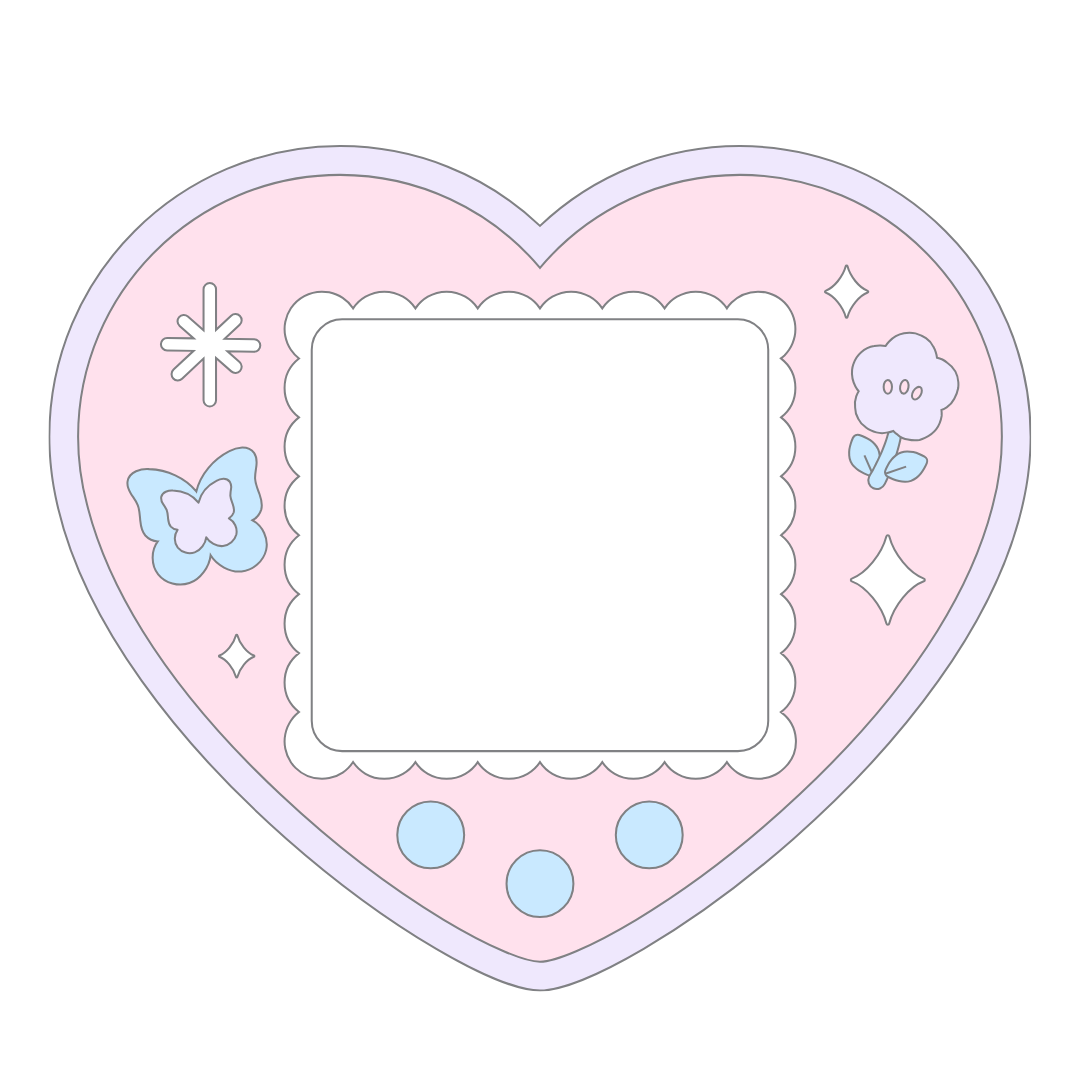
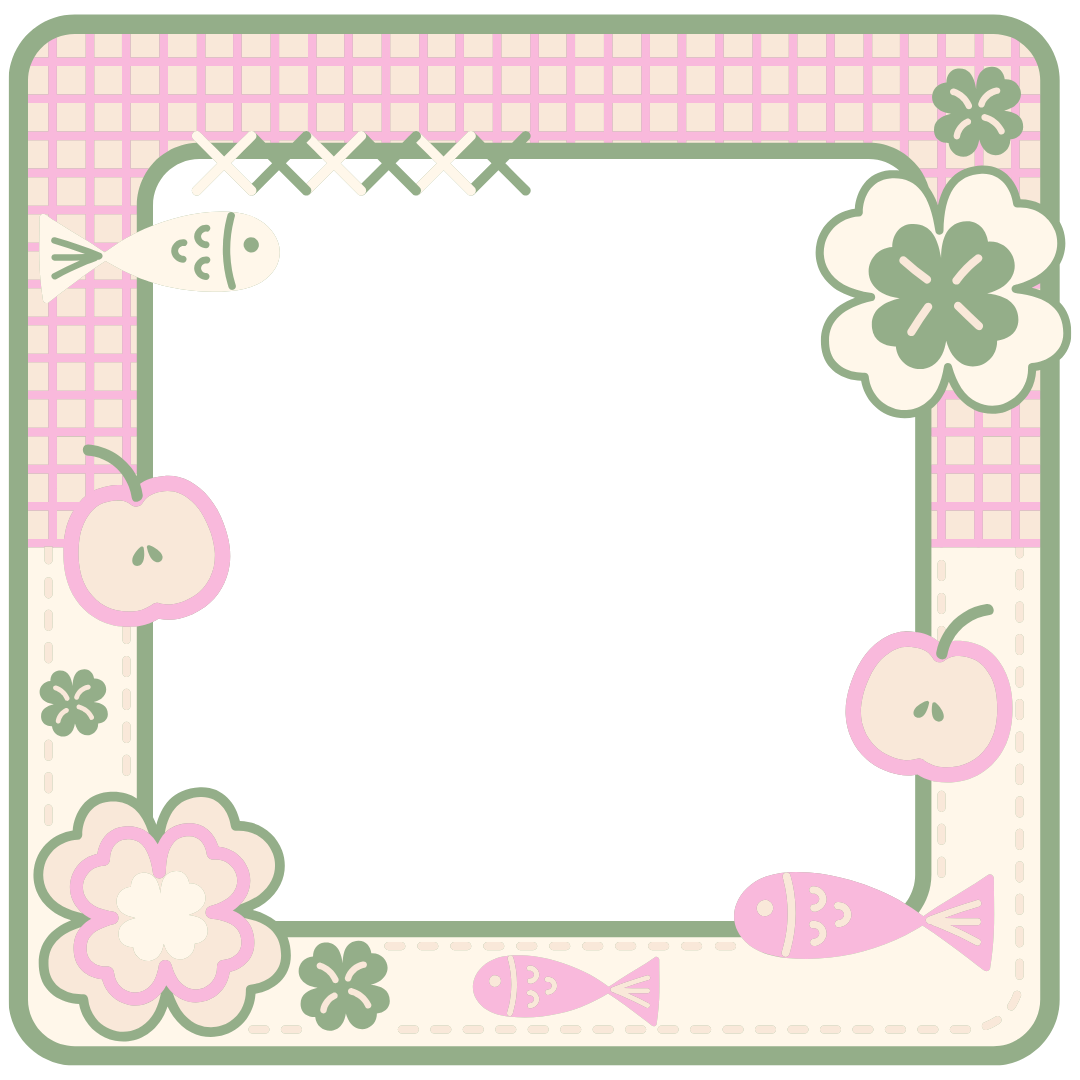
adjust designs

diff --git a/frontend/src/pages/ProfilePage.jsx b/frontend/src/pages/ProfilePage.jsx
@@ -3,7 +3,7 @@
 import { useState } from "react"
 import { useAuthStore } from "../store/useAuthStore"
 import avatar from "../assets/avatar.jpg"
-import { Camera, Mail, User } from "lucide-react"
+import { Camera, Cloud, Mail, User } from "lucide-react"
 import profileContainer from "../assets/profileContainer.png"
 
 const ProfilePage = () => {
@@ -26,14 +26,16 @@ const ProfilePage = () => {
 
   return (
     <div className="h-screen pt-20">
-      <div className="max-w-2xl mx-auto p-4 py-8">
-        <div className="bg-base-300 rounded-xl p-6 space-y-8">
+      <div className="max-w-5xl mx-auto p-4 py-8">
+        <div className="bg-base-300 rounded-xl p-6 space-y-2">
           <h1 className="text-2xl font-semibold">Profile</h1>
-          <p className="mt-2">Your profile information</p>
+          <p className="mt-1">Your profile information</p>
         </div>
 
-        {/* ================AVATAR UPLOAD================= */}
-        <div className="flex flex-col items-center gap-4 my-8">
+     <div className="grid lg:grid-cols-2 xl:grid-cols-2 items-center justify-center mt-6">
+         {/* ================AVATAR UPLOAD================= */}
+        <div className="flex-1 max-w-md">
+          <div className="flex flex-col items-center gap-4 my-8">
           <div className="relative">
             {/* Heart container with exact positioning */}
             <div className="relative w-80 h-80">
@@ -47,15 +49,12 @@ const ProfilePage = () => {
               <div className="absolute inset-0 flex items-center justify-center">
                 <div className="relative" style={{ marginTop: "8px", marginLeft: "2px" }}>
                   {/* Profile image with exact dimensions to fit the scalloped frame */}
-                  <div className="size-34 -mt-2 overflow-hidden relative">
+                  <div className="size-65 -mt-2 overflow-hidden relative">
                     <img
                       src={selectedImage || authUser?.profilePic || avatar}
                       alt="Profile Image"
-                      className="w-full h-full object-cover"
-                      style={{
-                        clipPath: "polygon(8% 8%, 92% 8%, 92% 92%, 8% 92%)",
-                        borderRadius: "12px",
-                      }}
+                      className="w-full h-full object-cover rounded-4xl border-3 border-[#94ad89]  bg-white"
+                     
                     />
                   </div>
 
@@ -82,18 +81,24 @@ const ProfilePage = () => {
             </div>
           </div>
 
-          <p className="text-sm text-primary text-center max-w-xs">
-            {isUpdatingProfile ? "Uploading..." : "Click the camera icon to upload a new profile picture"}
+          <p className="text-sm text-primary text-center max-w-md">
+            {isUpdatingProfile ? <div className="absolute inset-0 bg-base/70 backdrop-blur-sm z-10 flex items-center justify-center rounded-2xl">
+      <Cloud className="w-16 h-16 text-primary animate-bounce" />
+    </div> : <div className="bg-primary-content p-4 rounded-xl text-center text-primary">
+      Click the camera icon to upload a new profile picture</div>}
           </p>
         </div>
+        </div>
 
-        <div className="space-y-6">
+        {/* ================PROFILE INFO================= */}
+        <div className="flex-1 max-w-md space-y-6">
+           <div className="space-y-6">
           <div className="space-y-2">
             <div className="text-sm text-zinc-400 flex items-center gap-2">
               <User className="size-4" />
               Fullname
             </div>
-            <p className="px-4 py-2 bg-base-200 rounded-lg border">{authUser?.fullname}</p>
+            <p className="px-4 py-2 bg-primary-content rounded-lg border-2 border-secondary">{authUser?.fullname}</p>
           </div>
 
           <div className="space-y-2">
@@ -101,16 +106,17 @@ const ProfilePage = () => {
               <Mail className="size-4" />
               Email
             </div>
-            <p className="px-4 py-2 bg-base-200 rounded-lg border">{authUser?.email}</p>
+            <p className="px-4 py-2 bg-primary-content rounded-lg border-2 border-secondary">{authUser?.email}</p>
           </div>
-        </div>
 
-        <div className="mt-6 bg-base-300 rounded-xl p-6">
+          
+        </div>
+ <div className="mt-6 bg-base-300/40 rounded-xl p-6">
           <h2 className="text-lg font-medium mb-4">Account Information</h2>
           <div className="space-y-3 text-sm">
             <div className="flex items-center justify-between py-2 border-b">
               <span>Member Since</span>
-              <span className="text-black">{authUser.createdAt?.split("T")[0]}</span>
+              <span className="">{authUser.createdAt?.split("T")[0]}</span>
             </div>
 
             <div className="flex items-center justify-between py-2">
@@ -119,6 +125,9 @@ const ProfilePage = () => {
             </div>
           </div>
         </div>
+        </div>
+     </div>
+       
       </div>
     </div>
   )

diff --git a/frontend/src/components/NoChatSelected.jsx b/frontend/src/components/NoChatSelected.jsx
@@ -1,21 +1,22 @@
 import { MessageSquare } from 'lucide-react'
 import React from 'react'
+import welcomeImg from '../assets/welcomeImg.png'
 
 const NoChatSelected = () => {
   return (
     <div className="w-full flex flex-1 flex-col items-center justify-center p-16 bg-base-100/50">
-        <div className="max-w-md text-center space-y-6">
+        <div className="max-w-xl text-center space-y-6">
 
-            <div className="flex justify-center gap-4 mb-4">
+            <div className="flex justify-center gap-4 mb-6">
                 <div className="relative">
-                    <div className="size-16 rounded-2xl bg-primary/10 flex items-center justify-center animate-bounce">
-                    <MessageSquare className='size-8 text-primary'/>
+                    <div className="w-full rounded-2xl bg-primary/10 flex items-center justify-center ">
+                    <img src={welcomeImg} alt="" />
                     </div>
                 </div>
             </div>
 
-            <h2 className="text-2xl font-bold">Welcome to Moffmo!</h2>
-            <p className='text-base-content/60'>Pick a conversation to start messaging</p>
+            <h2 className="text-2xl font-bold animate-bounce">Welcome to Moffmo!</h2>
+            <p className='text-lg content/60'>Pick a conversation to start messaging</p>
         </div>
     </div>
   )

diff --git a/frontend/src/pages/LoginPage.jsx b/frontend/src/pages/LoginPage.jsx
@@ -23,7 +23,7 @@ const LoginPage = () => {
 
 
   return (
-    <div className='min-h-screen grid lg:grid-cols-2'>
+    <div className='min-h-screen grid lg:grid-cols-2 overflow-hidden'>
 
      {/* ======================= LEFT SIDE======================= */}
      <div className='flex flex-col justify-center items-center p-6 sm:p-12'>
@@ -131,10 +131,9 @@ const LoginPage = () => {
 
       {/* ======================= RIGHT SIDE======================= */}
 
-      <AuthImagePattern
-      title ='Welcome Back!'
-      subTitle="Sign in to your account and continue your journey with us."
-      />
+   <div className='bg-base-200/40 hidden lg:flex justify-center items-center relative'>
+       <AuthImagePattern   />
+   </div>
 
     </div>
   )

diff --git a/frontend/src/components/AuthImagePattern.jsx b/frontend/src/components/AuthImagePattern.jsx
@@ -1,19 +1,15 @@
 import { Boxes } from 'lucide-react'
 import React from 'react'
-
-const AuthImagePattern = ({title, subTitle}) => {
+import cinnamorol from '../assets/cinnamorol.png'
+const AuthImagePattern = () => {
   return (
-    <div className='flex flex-col items-center justify-center gap-4'>
-        <div className="max-w-md text-center">
-            <Boxes/> {/* =============image put here ============= */}
+        <div className='' >
+       
+              <img src={cinnamorol} alt="Login " className='size-170 ' />
+         
         </div>
 
-        <div>
-            <h2 className='text-2xl font-bold'>{title}</h2>
-        <p className='text-base-content/60'>{subTitle}</p>
-        </div>
 
-    </div>
   )
 }
 

diff --git a/frontend/src/store/useAuthStore.js b/frontend/src/store/useAuthStore.js
@@ -89,7 +89,7 @@ export const useAuthStore = create((set,get) => ({
             
         } catch (error) {
             console.log("Error in Update Profile:", error)
-            toast.error(error.response.data.message)
+            toast.error("Image size too large")
         } finally{
             set({isUpdatingProfile:false})
         }

diff --git a/backend/src/seeds/user.seed.js b/backend/src/seeds/user.seed.js
@@ -28,7 +28,7 @@ const seedUsers = [
   },
   {
     email: "jin@gmail.com",
-    fullname: "Jin Failana",
+    fullname: "Jin love lei",
     password: "123456",
     profilePic: "https://i.pinimg.com/736x/96/98/f6/9698f63016f7fb05029de0205e48a3e8.jpg",
   },

diff --git a/frontend/src/index.css b/frontend/src/index.css
@@ -38,3 +38,4 @@
   font-family: 'Gamja Flower', cursive;
 
 }
+
